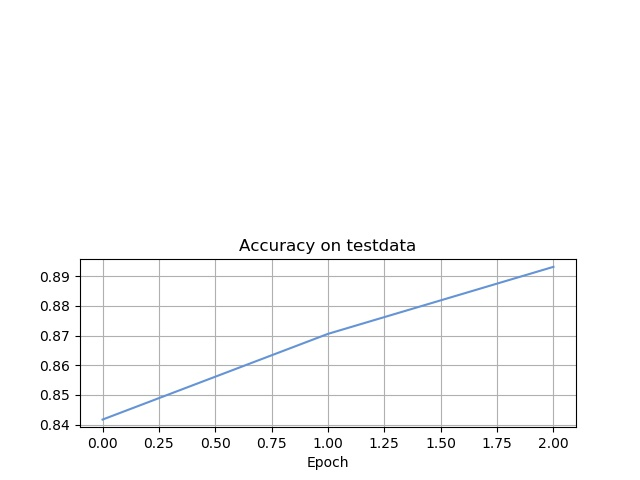
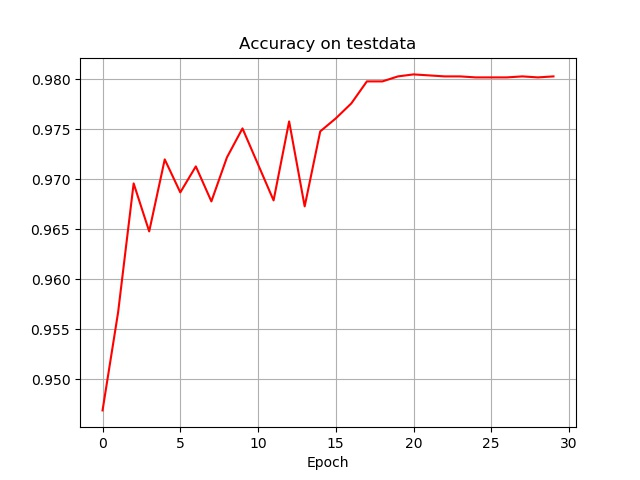
1.10

diff --git a/plt.py b/plt.py
@@ -4,23 +4,24 @@ import matplotlib.pyplot as plt
 
 with open("./dnn_loss", "r") as f:
     loss = json.load(f)
-# with open("./dnn_accuracy", "r") as f:
-#     test_accuracy = json.load(f)
+with open("./dnn_accuracy", "r") as f:
+    test_accuracy = json.load(f)
 
 fig = plt.figure()
-ax1 = fig.add_subplot(111)
-ax1.plot(np.arange(len(loss)), loss, color='#6593d3')
-ax1.grid(True)
-ax1.set_xlabel('Epoch')
-ax1.set_title('dnn loss')
-plt.savefig('./dnn_loss.jpg')
 
-# ax2 = fig.add_subplot(212)
-# ax2.plot(np.arange(3), test_accuracy, color='#6593d3')
-# ax2.grid(True)
-# ax2.set_xlabel('Epoch')
-# ax2.set_title('Accuracy on testdata')
-# plt.savefig('./dnn_accuracy.jpg')
+# ax1 = fig.add_subplot(111)
+# ax1.plot(np.arange(len(loss)), loss, color='#6593d3')
+# ax1.grid(True)
+# ax1.set_xlabel('Epoch')
+# ax1.set_title('dnn loss')
+# plt.savefig('./dnn_loss.jpg')
+
+ax = fig.add_subplot(111)
+ax.plot(np.arange(len(test_accuracy)), test_accuracy, color='red')
+ax.grid(True)
+ax.set_xlabel('Epoch')
+ax.set_title('Accuracy on testdata')
+plt.savefig('./dnn_accuracy.jpg')
 
 plt.show()
 
